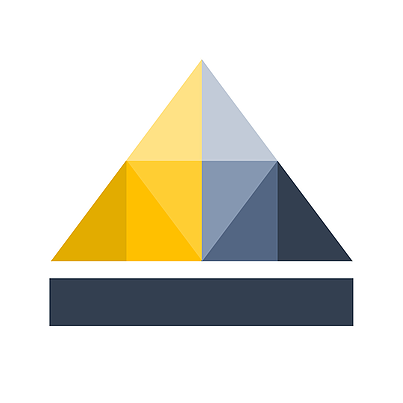
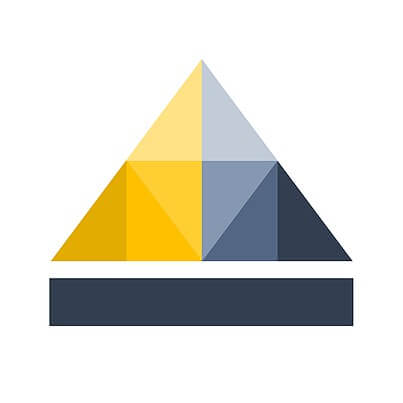
Optimize images

diff --git a/src/assets/css/block/footer.css b/src/assets/css/block/footer.css
@@ -53,14 +53,25 @@
 	margin-top: 1rem;
 }
 
+.footer aside {
+	display: flex;
+}
+
 .footer aside img {
-	margin-bottom: -2rem;
+	margin-top: 1rem;
+	width: 7rem;
 }
 
 @media (min-width: 576px) {
 	.footer .container {
 		align-items: flex-end;
 		flex-direction: row;
+	}
+
+	.footer aside img {
+		margin-bottom: -0.5rem;
+		margin-top: 0px;
+		width: 10.625rem;
 	}
 }
 

diff --git a/src/assets/css/block/header.css b/src/assets/css/block/header.css
@@ -1,5 +1,5 @@
 .header {
-	padding: 1rem;
+	padding: 2.5rem 1rem;
 }
 
 .header .container {
